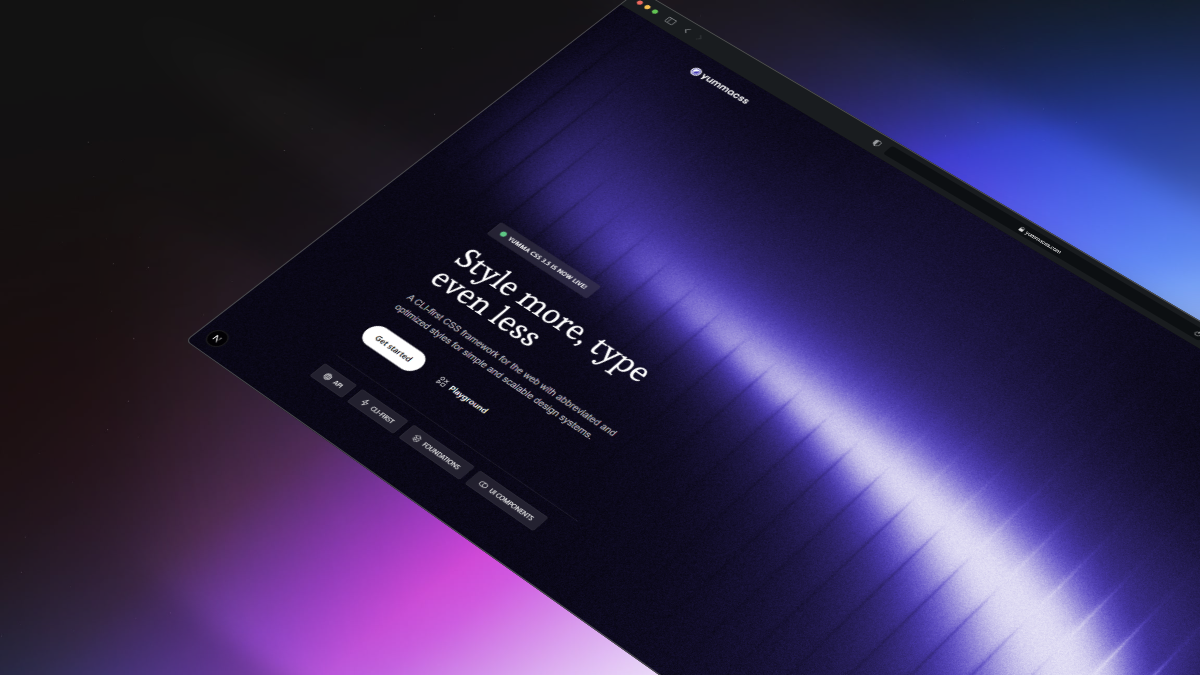
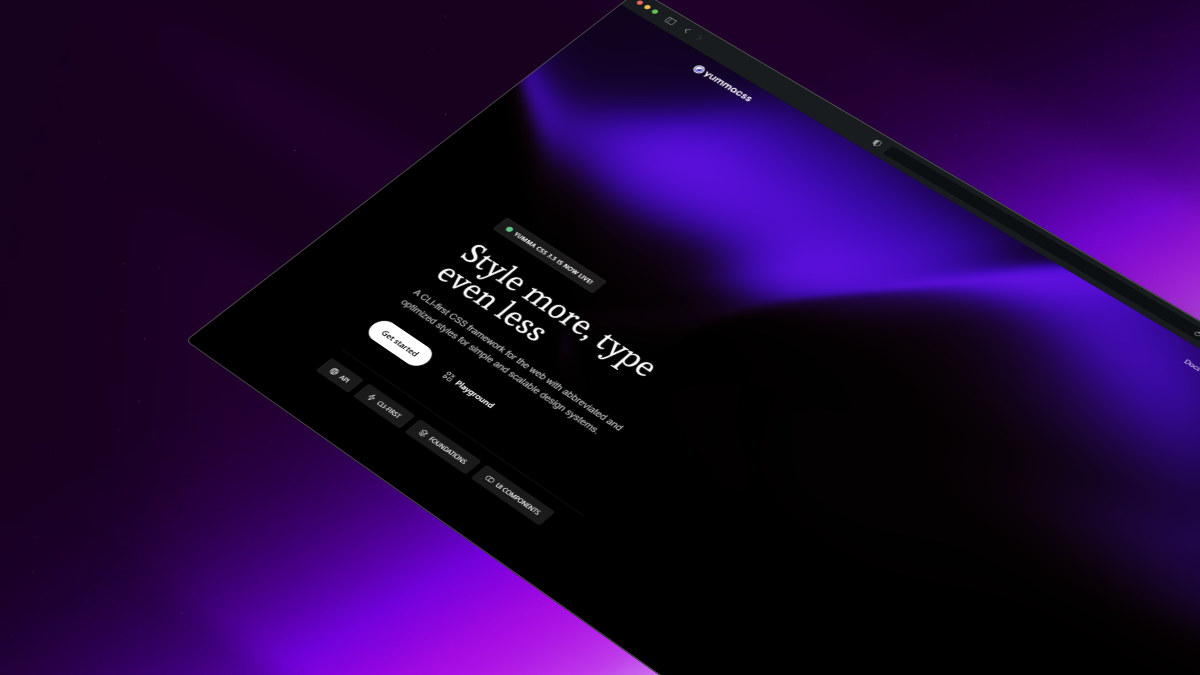
Remove blog cover images; tweak color table

diff --git a/src/app/blog/page.tsx b/src/app/blog/page.tsx
@@ -48,12 +48,23 @@ export default async function BlogPage() {
                       <div className="lg:w-64 lg:fs-0">
                         <div className="bg-white/10 rad-2 o-h bc-white/5 b-1">
                           <Image
-                            src={`/blog/${post.slug}/${post.cover}`}
+                            src={`/blog/${post.slug}.png`}
                             alt={post.title}
-                            width={256}
-                            height={144}
+                            width={1200}
+                            height={
+                              post.slug.startsWith("playground-0.0.1-")
+                                ? 675
+                                : 630
+                            }
                             className="w-full h-auto of-c"
-                            style={{ aspectRatio: "16/9" }}
+                            style={{
+                              aspectRatio: post.slug.startsWith(
+                                "playground-0.0.1-",
+                              )
+                                ? "16/9"
+                                : "1200/630",
+                            }}
+                            quality={100}
                           />
                         </div>
                       </div>

diff --git a/src/components/legacy/legacy-color.tsx b/src/components/legacy/legacy-color.tsx
@@ -79,18 +79,18 @@ export default function LegacyColor({
 
   return (
     <div className="max-h-90 o-y-auto mb-6">
-      <table className="w-full bc-c" style={{ backgroundColor: "#21243fa6" }}>
+      <table className="w-full bc-c">
         <thead>
           <tr>
             <th
               className="fs-md fw-600 px-4 py-2 ta-l b-1 tc-white"
-              style={{ borderColor: "#31365e" }}
+              style={{ borderColor: "#31365e80" }}
             >
               Class
             </th>
             <th
               className="fs-md fw-600 px-4 py-2 ta-l b-1 tc-white"
-              style={{ borderColor: "#31365e" }}
+              style={{ borderColor: "#31365e80" }}
             >
               Styles
             </th>
@@ -101,17 +101,19 @@ export default function LegacyColor({
             <tr key={`${classItem.classTitle}-${index}`}>
               <td
                 className="px-4 py-2 b-1 tc-white/80"
-                style={{ borderColor: "#31365e" }}
+                style={{ borderColor: "#31365e80" }}
               >
-                <code className="px-2 py-1" style={{ color: "#85b1e0" }}>
+                <code className="fs-xs" style={{ color: "#dda2f6" }}>
                   {classItem.classTitle}
                 </code>
               </td>
               <td
                 className="px-4 py-2 b-1 tc-white/80"
-                style={{ borderColor: "#31365e" }}
+                style={{ borderColor: "#31365e80" }}
               >
-                <code className="fs-sm">{classItem.properties.join("\n")}</code>
+                <code className="fs-xs" style={{ color: "#bec6f2" }}>
+                  {classItem.properties.join("\n")}
+                </code>
               </td>
             </tr>
           ))}

diff --git a/src/utils/blog.ts b/src/utils/blog.ts
@@ -7,12 +7,8 @@ export interface BlogPostMeta {
   authors: string;
 }
 
-// List of all blog post slugs
-// This should match the MDX files in src/content/blog/
+// list of all blog post slugs present in `src/content/blog/` directory
 const blogSlugs = [
-  "api-1.0.0",
-  "playground-0.0.1",
-  "ui-0.1.0",
   "yummacss-0.1.0",
   "yummacss-1.0.0",
   "yummacss-1.1.0",
@@ -20,10 +16,12 @@ const blogSlugs = [
   "yummacss-2.0.0",
   "yummacss-2.1.0",
   "yummacss-3.0.0",
+  "api-1.0.0",
   "yummacss-3.1.0",
   "yummacss-3.2.0",
   "yummacss-3.3.0",
   "yummacss-3.4.0",
+  "ui-0.1.0",
   "yummacss-3.5.0",
 ];
 
@@ -54,7 +52,7 @@ export async function getAllBlogPosts(): Promise<BlogPostMeta[]> {
     }
   }
 
-  // Sort by date, newest first
+  // sort by date, newest first
   return posts.sort(
     (a, b) => new Date(b.date).getTime() - new Date(a.date).getTime(),
   );

diff --git a/src/app/blog/[slug]/page.tsx b/src/app/blog/[slug]/page.tsx
@@ -89,11 +89,12 @@ export default async function BlogPostPage({
           {frontmatter?.cover && (
             <div className="mb-12 o-h b-1 bc-white/10">
               <Image
-                src={`/blog/${slug}/${frontmatter.cover}`}
+                src={`/blog/${slug}.png`}
                 alt={frontmatter.title || "Blog cover"}
-                width={800}
-                height={450}
+                width={1200}
+                height={slug.startsWith("playground-0.0.1-") ? 675 : 630}
                 className="w-full h-auto"
+                quality={100}
               />
             </div>
           )}